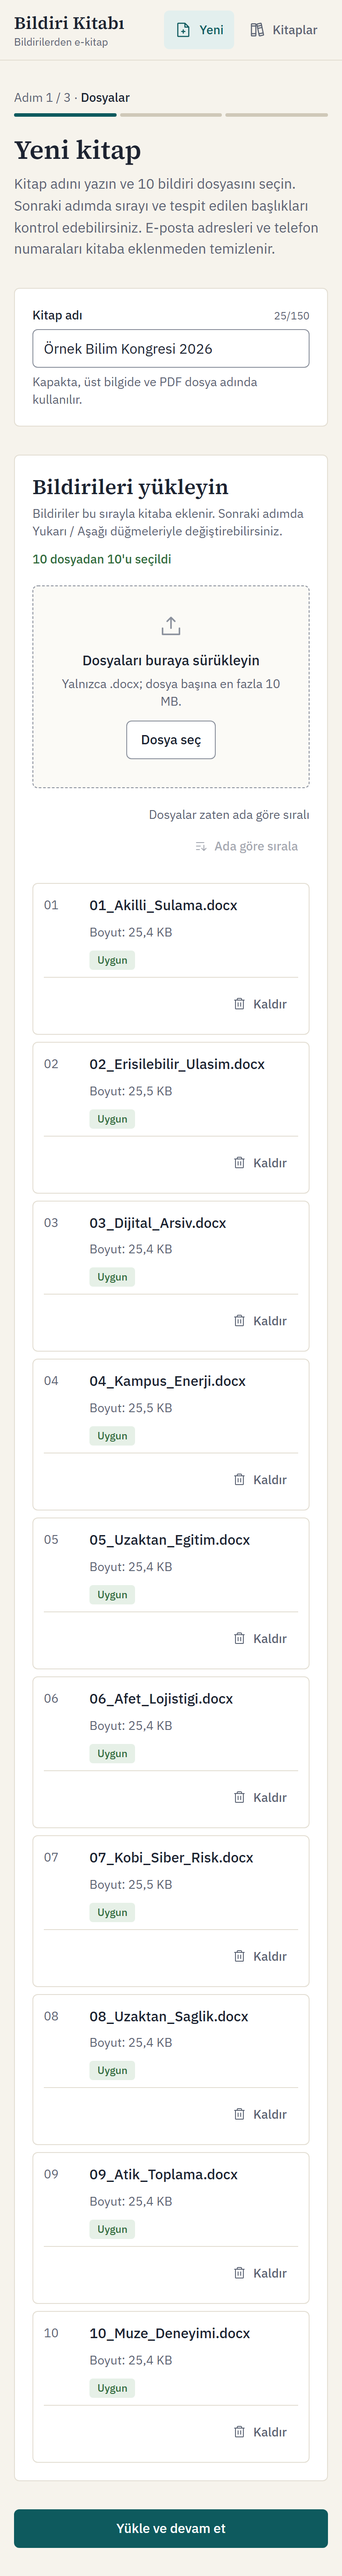
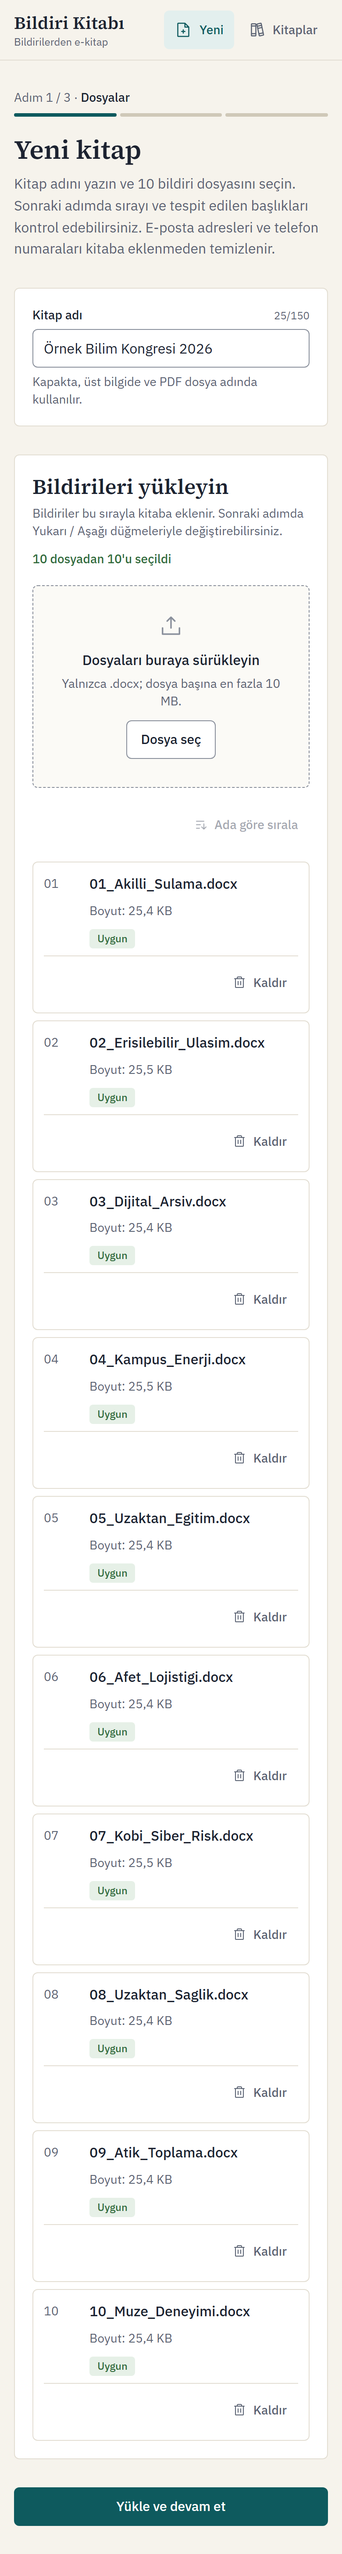
docs: README'de tablo hizaları ve sıralama ipucu anlatıldı, adım 1 ekran görüntüleri yenilendi

diff --git a/README.md b/README.md
@@ -419,7 +419,7 @@ MassTransit yerine doğrudan `RabbitMQ.Client` kullanıldı: tek kuyruk ve tek m
 ## Arayüz ve tasarım kararları
 
 - **Adım yapısı:** "Yeni kitap" üç adımlı bir akıştır — (1) kitap adı ve dosyalar, (2) sıra ve kontrol, (3) oluşturma ve görüntüleme. Adımlar üstte bir adım göstergesiyle izlenir; tarayıcı adresi kitaba bağlıdır, sayfa yenilense de akış kaldığı yerden devam eder.
-- **Dosya listesi:** masaüstünde başlık ve satırların aynı sütun düzenini paylaştığı bir tablo (sıra, dosya adı, boyut, durum), telefonda aynı bilgileri taşıyan kartlar. Dosyalar yükleme alanına sürükleyip bırakarak veya dosya seçiciyle eklenir; eksik, fazla, yanlış türde veya mükerrer dosya hemen, dosya bazında belirtilir. "Ada göre sırala" doğal sayı sıralaması kullanır (`2_…` önce, `10_…` sonra); liste zaten sıralıysa pasiftir ve bunu yazar, sıralayınca kısa bir onay gösterir.
+- **Dosya listesi:** masaüstünde başlık ve satırların aynı sütun düzenini paylaştığı bir tablo (sıra, dosya adı, boyut, durum), telefonda aynı bilgileri taşıyan kartlar. Bu tabloda ve Kitaplarım'da kısa, biçimi sabit sayılar (boyut, bildiri ve sayfa sayısı) başlıklarıyla birlikte ortalıdır ve eşit genişlikli rakamlarla yazılır; durum etiketleri, genişlikleri farklı olduğu için sola hizalıdır; komşu sütunların içerikleri arasında en az yaklaşık 2rem boşluk kalır. Dosyalar yükleme alanına sürükleyip bırakarak veya dosya seçiciyle eklenir; eksik, fazla, yanlış türde veya mükerrer dosya hemen, dosya bazında belirtilir. "Ada göre sırala" doğal sayı sıralaması kullanır (`2_…` önce, `10_…` sonra); liste zaten sıralıysa pasiftir ve nedeni bir ipucu balonunda görünür (fareyle üzerine gelince açılır, imleç ayrılınca kapanır; klavye odağında açılır, Esc ile kapanır; telefonda dokununca birkaç saniye görünür), sıralayınca kısa bir onay gösterir.
 - **Yükleme:** önce yükleme yüzdesi, dosyalar gönderildikten sonra "Dosyalar kontrol ediliyor ve başlıklar tespit ediliyor…" aşaması gösterilir. Her sayfa geçişinde sayfa en üstten başlar ve odak yeni sayfanın başlığına taşınır (geri/ileri tuşlarında tarayıcının konumu korunur).
 - **Sıralama:** ikinci adımda tespit edilen başlıklar ve başlık kaynağı görünür. Sıra yalnızca her satırdaki Yukarı / Aşağı düğmeleriyle değişir (sürükle-bırak sıralama kaldırıldı); ilk satırda Yukarı, son satırda Aşağı pasiftir. Taşımadan sonra odak aynı bildirinin düğmesinde kalır ve yeni sıra ekran okuyucuya duyurulur; sıra yükleme sırasından farklıysa bir not gösterilir.
 - **Bekleme ekranı:** sunucudaki gerçek aşamalar (okuma, temizlik, düzenleme, PDF oluşturma, kontrol, kaydetme) ve gerçek yüzde gösterilir; yapay gecikme veya sahte ilerleme yoktur. Durum kısa aralıklarla yoklanır, sekme arka plandayken yoklama durur.
